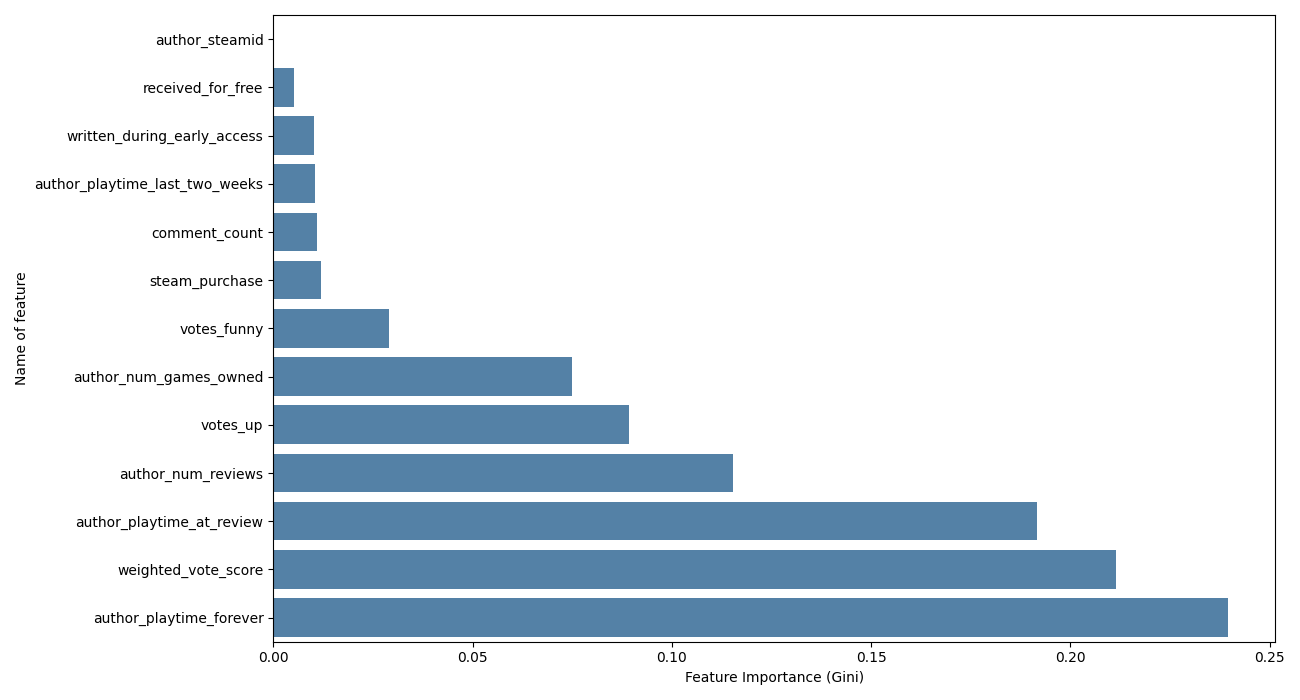
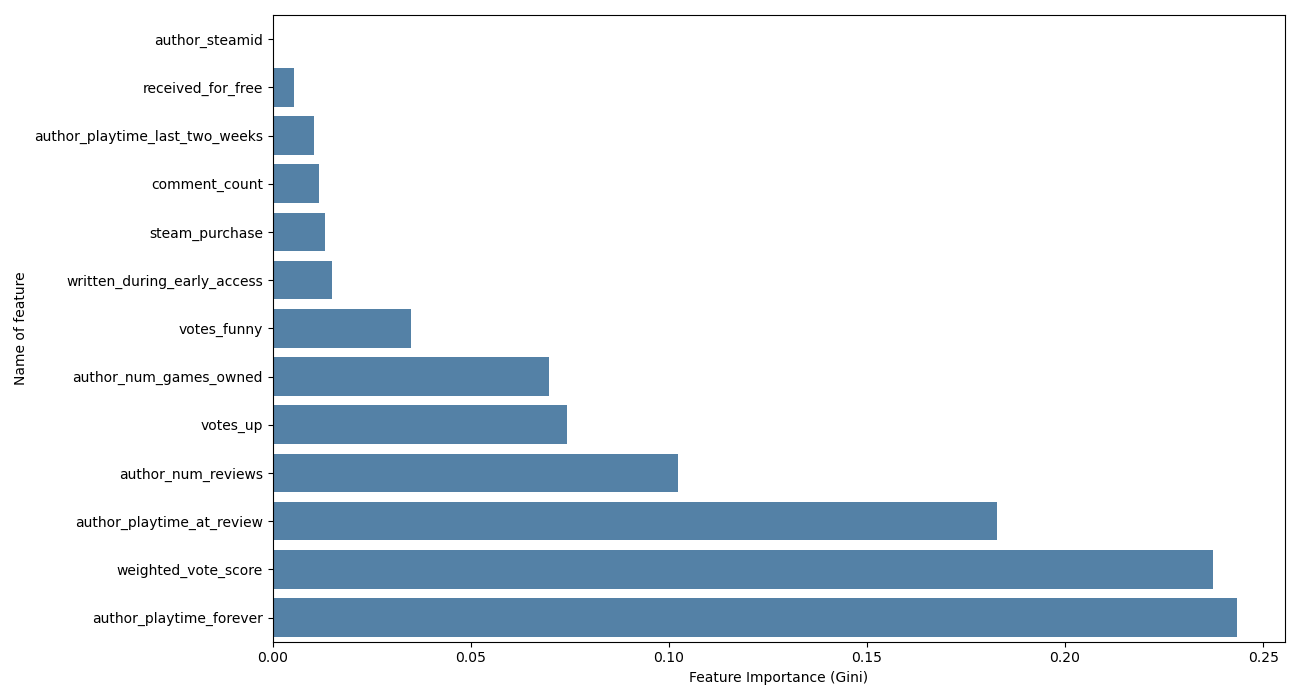
Added LSTM functionallity

diff --git a/src/models/train_model.py b/src/models/train_model.py
@@ -6,9 +6,15 @@ from sklearn.preprocessing import StandardScaler
 from sklearn.ensemble import RandomForestClassifier
 from sklearn.metrics import accuracy_score, precision_score, recall_score, f1_score, confusion_matrix
 import pandas as pd
+import numpy as np
 
 from feature_engineering.build_features import LogisticRegressionFeatureEngineering
 from models.predict_model import BasicLogisticRegressionPredictor, BasicRandomForestPredictor
+
+from tensorflow.keras.models import Sequential
+from tensorflow.keras.layers import Embedding, LSTM, Dense 
+from sklearn.utils.class_weight import compute_class_weight
+from feature_engineering.build_features import LSTMFeatureEngineering
 
 
 class BasicLogisticRegressionTraining:
@@ -160,5 +166,117 @@ class BasicRandomForestTraining:
 
     def run_rf_pipeline(self):
         self.set_features()
+        self.train()
+        return self.evaluate()
+    
+class LSTMTraining:
+    def __init__(self, train_df, test_df):
+        """
+        Initialize the LSTM model.
+
+        Args:
+            train_df: training dataframe, taken from LSTMFeatureEngineering
+            test_df: testing dataframe, taken from LSTMFeatureEngineering
+        """
+        self.train_df = train_df
+        self.test_df = test_df
+        self.feature_engineer = LSTMFeatureEngineering()
+        self.embedding_dim = 50 #The size of the vector used to represent each word
+        
+        # Size of the hidden state vector. 
+        # A higher value means the model can remember more complex patterns 
+        self.lstm_units = 32 
+        #Placeholders
+        self.X_train = None
+        self.X_test = None
+        self.y_train = None
+        self.y_test = None
+        self.y_pred = None
+        self.model = None
+        
+    def build_model(self):
+        """
+        Builds and compiles LSTM model.
+        Embedding layer learns word representations,
+        LSTM layer captures sequential context,
+        Dense layer with sigmoid activation is for binary classification
+        """
+        
+        self.model = Sequential([
+            Embedding(
+                input_dim=self.feature_engineer.max_words,
+                output_dim = self.embedding_dim,
+                input_length= self.feature_engineer.max_len
+            ),
+            LSTM(units=self.lstm_units),
+            Dense(1, activation="sigmoid")
+        ])
+        
+        self.model.compile(
+            loss="binary_crossentropy",
+            optimizer='adam',
+            metrics=['accuracy']
+        )
+        
+        print(self.model.summary())
+        
+    def set_features(self):
+        """
+        Runs tokenization and padding on the training and test set
+        by calling fit_transfrom from LSTMFeatureEngineering.
+        Populates X_train, X_test, y_train, y_test
+        """
+        self.X_train, self.X_test, self.y_train, self.y_test = self.feature_engineer.fit_transform(self.train_df, self.test_df)
+        
+    def train(self):
+        """
+        Computes balanced class weights to account for positve/negative
+        review imbalance. Penalizes the model more for misclassifying negatives.
+        Then trains and saves the model
+        """
+        
+    
+        class_weight = compute_class_weight(
+            class_weight="balanced",
+            classes=np.unique(self.y_train),
+            y=self.y_train
+        )
+        class_weight_dict = dict(enumerate(class_weight))
+        
+        self.model.fit(
+            self.X_train, self.y_train,
+            epochs = 10,
+            batch_size = 32,
+            validation_split = 0.1,
+            class_weight=class_weight_dict
+        )
+        
+        base_dir = os.path.dirname(os.path.abspath(__file__))
+        self.model.save(os.path.join(base_dir, "lstm_model.keras"))
+        
+    def evaluate(self):
+        """
+        Generates predictions and returns evaluation metrics.
+
+        Returns:
+            metrics_dict: A dictionary of the resulting metrics.
+        """
+
+        y_pred_proba = self.model.predict(self.X_test)
+        self.y_pred = (y_pred_proba > 0.5).astype(int).flatten() 
+        
+        metrics_dict = {
+            "loss": self.model.evaluate(self.X_test, self.y_test, verbose=0)[0],
+            "accuracy": accuracy_score(self.y_test, self.y_pred),
+            "precision": precision_score(self.y_test, self.y_pred),
+            "recall": recall_score(self.y_test, self.y_pred),
+            "f1_score": f1_score(self.y_test, self.y_pred),
+            "confusion_matrix": confusion_matrix(self.y_test, self.y_pred)
+        }
+        return metrics_dict
+    
+    def run_lstm_pipeline(self):
+        self.set_features()
+        self.build_model()
         self.train()
         return self.evaluate()

diff --git a/src/models/predict_model.py b/src/models/predict_model.py
@@ -2,6 +2,10 @@
 #IMPORTS
 import joblib
 import os
+import numpy as np
+from tensorflow.keras.models import load_model
+from tensorflow.keras.preprocessing.sequence import pad_sequences
+from feature_engineering.build_features import LSTMFeatureEngineering
 
 
 class BasicLogisticRegressionPredictor:
@@ -59,3 +63,30 @@ class BasicRandomForestPredictor:
         y_pred_proba = self.model.predict_proba(X)
 
         return y_pred, y_pred_proba
+    
+    class LSTMPredictor:
+        def __init__(self):
+            """
+            Loads the trained LSTM model and tokenizer from the models directory.
+            """
+            base_dir = os.path.dirname(os.path.abspath(__file__))
+            self.model = load_model(os.path.join(base_dir, "lstm_model.keras"))
+            self.tokenizer = joblib.load(os.path.join(base_dir, "lstm_tokenizer.pkl"))
+            self.max_length = LSTMFeatureEngineering.max_len
+
+        def predict(self, texts):
+            """
+            Takes a list of raw review strings and returns predictions.
+            Args:
+                texts: A list of review strings
+            Returns:
+                y_pred: Hard predictions (0 or 1)
+                y_pred_proba: Confidence scores between 0 and 1
+            """
+            sequences = self.tokenizer.texts_to_sequences(texts)
+            padded = pad_sequences(sequences, maxlen=self.max_length, padding='post', truncating='post')
+
+            y_pred_proba = self.model.predict(padded).flatten()
+            y_pred = (y_pred_proba > 0.5).astype(int)
+
+            return y_pred, y_pred_proba

diff --git a/src/main.py b/src/main.py
@@ -1,12 +1,13 @@
 #IMPORTS 
 from preprocessing_data.pre_processing import PreProcessor
-from feature_engineering.build_features import LogisticRegressionFeatureEngineering, TFIDFFeatureEngineering
-from models.train_model import BasicLogisticRegressionTraining, BasicRandomForestTraining
+from feature_engineering.build_features import LogisticRegressionFeatureEngineering, TFIDFFeatureEngineering,LSTMFeatureEngineering
+from models.train_model import BasicLogisticRegressionTraining, BasicRandomForestTraining,LSTMTraining
 from visualization.visualize import LogisticRegressionVisualizer, RandomForestVisualizer, TFIDFVisualizer
 
 def main():
     processor = PreProcessor("src/data/raw/all_reviews.csv")
-    df = processor.preprocess(1000000)
+    df = processor.preprocess(500000)
+    print(df["voted_up"].value_counts())
     
     feature_builder = LogisticRegressionFeatureEngineering(df)
     base_train_df, base_test_df = feature_builder.split_data()
@@ -50,6 +51,14 @@ def main():
 
     rf_plot = RandomForestVisualizer(rf_trainer.model, feature_builder.feature_cols)
     rf_plot.plot_feature_importance()
-
+    
+    #LSTM
+    lstm_builder = LSTMFeatureEngineering(df)
+    lstm_train_df, lstm_test_df = lstm_builder.split_data()
+    lstm_trainer = LSTMTraining(lstm_train_df, lstm_test_df)
+    lstm_results = lstm_trainer.run_lstm_pipeline()
+    print("\nLSTM Results:")
+    for k, v in lstm_results.items():
+        print(f"{k}: {v}")
 if __name__ == "__main__":
     main()

diff --git a/src/feature_engineering/build_features.py b/src/feature_engineering/build_features.py
@@ -158,7 +158,7 @@ class LSTMFeatureEngineering:
         self.text_col = "review"
         self.max_words = max_words
         self.max_len = max_len
-        self.tokenizer = Tokenizer(num_word=self.max_words, oov_token="<00V>")
+        self.tokenizer = Tokenizer(num_words=self.max_words, oov_token="<OOV>")
         
     def split_data(self, test_size=0.2, random_state=RANDOM_STATE):
         """
@@ -176,7 +176,7 @@ class LSTMFeatureEngineering:
             print("Error: No dataframe provided")
         
         train_df, test_df = train_test_split(
-            self.df[[self.text_col], self.target_col],
+            self.df[[self.text_col, self.target_col]],
             test_size=test_size,
             random_state=random_state,
             
@@ -206,7 +206,7 @@ class LSTMFeatureEngineering:
         self.tokenizer.fit_on_texts(train_df[self.text_col])
         
         X_train_seq = self.tokenizer.texts_to_sequences(train_df[self.text_col])
-        X_test_seq = self.tokenizer.text_to_sequences(test_df[self.text_col])
+        X_test_seq = self.tokenizer.texts_to_sequences(test_df[self.text_col])
         
         #All inputs must be the same length, need to pad shorter inputs with 0s
         #'post' adds the additional 0's to the back (Ex. [15, 145, 0, 0, 0])